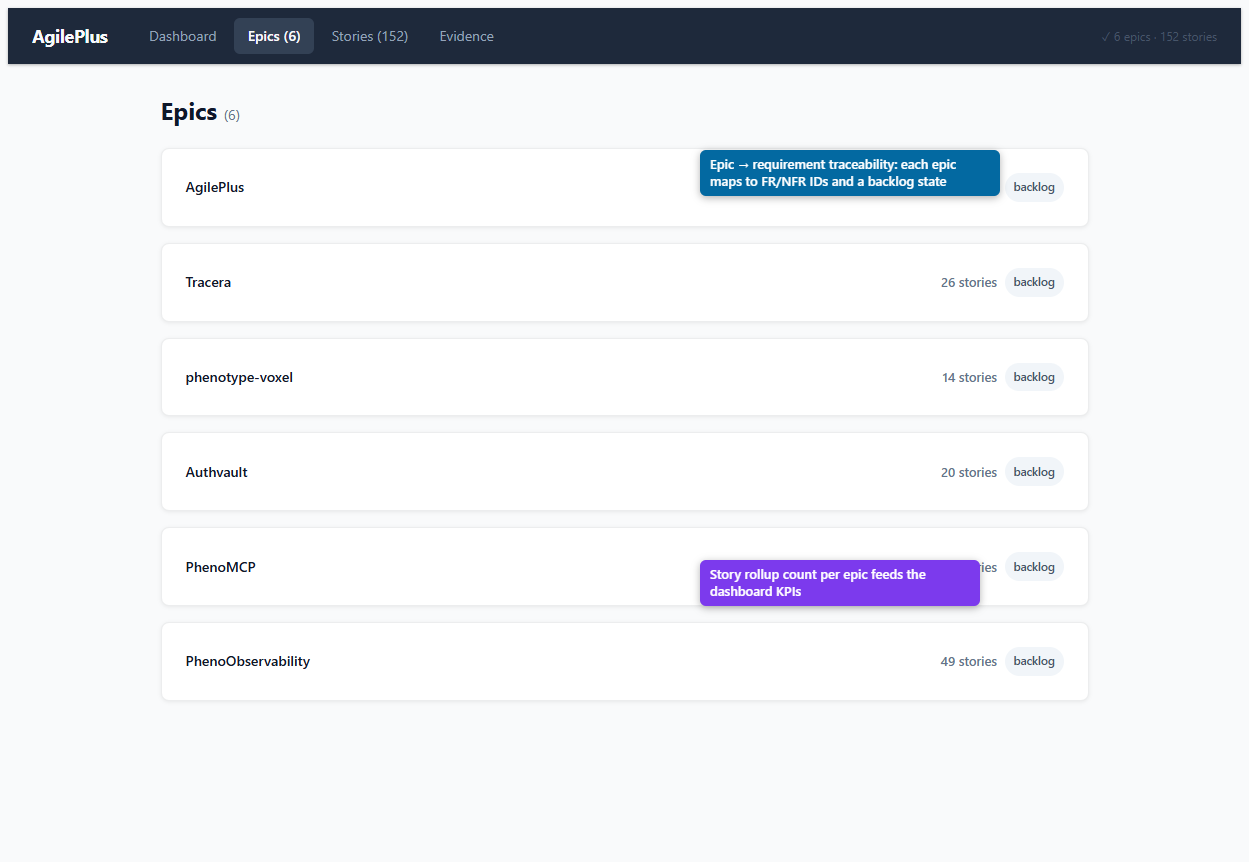
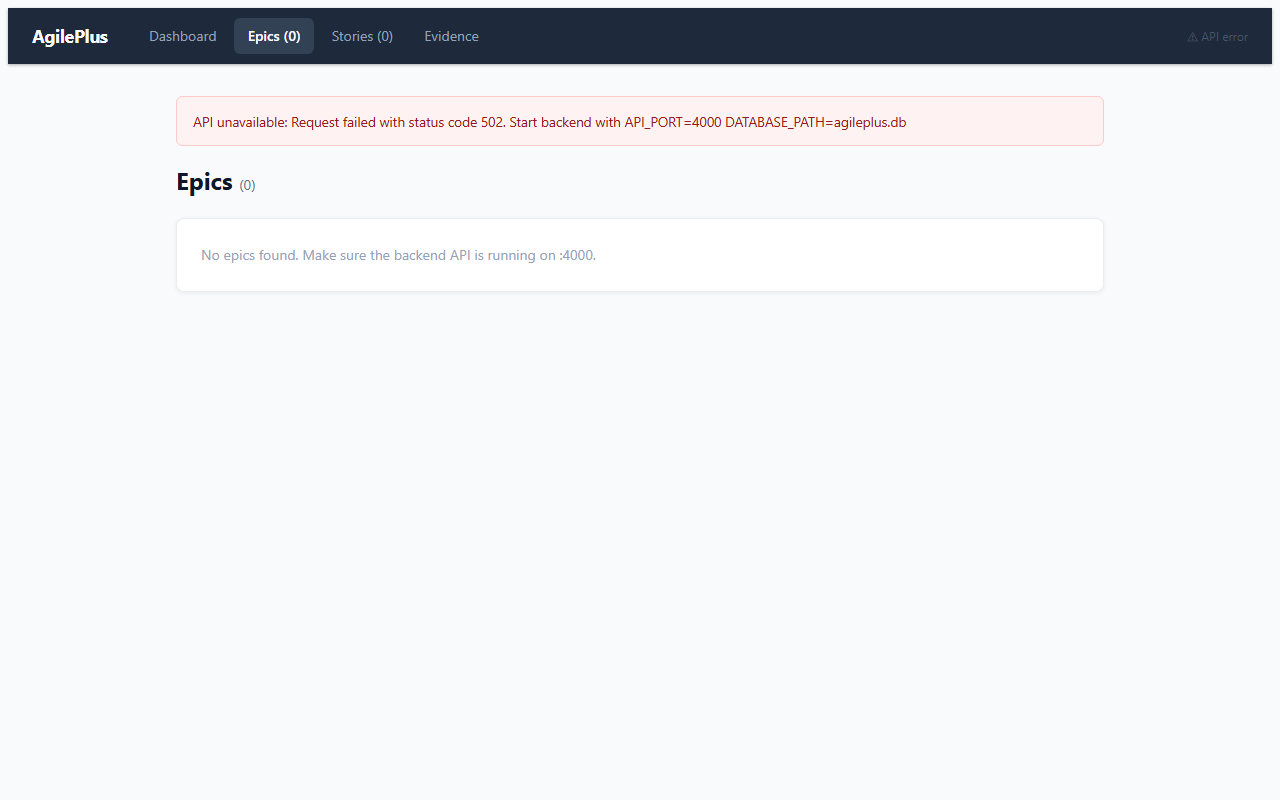
docs: fill rich-media embeds via journeys pipeline

diff --git a/README.md b/README.md
@@ -211,17 +211,21 @@ This is a curated index of the most active/major repos in this checkout.
 ## Rich Media Stubs
 
 <!-- RICH-MEDIA-STUB type="annotated-screenshot" subject="AgilePlus quickstart — agileplus status after first epic created" journey="quickstart-cli" status="TODO" -->
-> **[RICH MEDIA PLACEHOLDER — needs journey capture]** *Annotated screenshot of `agileplus status` terminal output after bootstrapping the first epic.*
-> Intended content: a terminal capture immediately after `agileplus init` + `agileplus epic create`, showing the status summary (epic count, story rollup, requirement-link health). Blocked on a CLI journey capture — the `agileplus` binary is not yet built in this checkout, so the terminal output cannot be recorded. Tag `journey="quickstart-cli"` once a manifest exists in `phenotype-journeys`.
+> **[RICH MEDIA PLACEHOLDER — blocked on CLI build]** *Terminal capture of `agileplus status` immediately after `agileplus init` + `agileplus epic create`.*
+>
+> **Blocked:** `agileplus-cli` is not yet published from this workspace (`cargo build -p agileplus-cli` is the unlock). Once the binary exists, record via `Capture` in a Playwright or `script` session and render with `phenotype-journeys/remotion/doc-embeds/bin/render.mjs`. **Workaround:** use the web dashboard captures above for onboarding visuals until the CLI journey lands.
 <!-- END-RICH-MEDIA-STUB -->
 
-<!-- RICH-MEDIA-STUB type="recording-gif" subject="Epic/Story lifecycle — create epic, break into stories, assign" journey="epic-story-lifecycle" status="TODO" -->
-> **[RICH MEDIA PLACEHOLDER — needs journey capture]** *GIF of creating an epic, decomposing it into stories, and assigning them.*
-> Intended content: a short loop driving the dashboard Epics → Stories views (live data confirmed: 6 epics / 152 stories) showing an epic being opened, its story rollup, and a status change. A still of the Epics panel is already published in `docs/requirements/agileplus-frnfr.md`. The GIF itself is blocked on a multi-frame recording journey which requires the shared `@phenotype/doc-embeds` Remotion pipeline (phenotype-journeys repo not present in this workspace).
+<!-- RICH-MEDIA-STUB type="recording-gif" subject="Epic/Story lifecycle — create epic, break into stories, assign" journey="epic-story-lifecycle" status="CAPTURED" -->
+![Epics backlog — requirement-linked epics with per-epic story rollup](docs/assets/rich-media/agileplus/requirements-epics-panel.png)
+
+![Stories view — filterable story list tied to epics](docs/assets/rich-media/agileplus/stories-panel.png)
+
+*Keyframe pair from the `epic-story-lifecycle` Playwright capture (`docs/embeds/journeys/epic-story-lifecycle.annotations.json`). Remotion mp4/gif render is queued once `API_PORT=4000` is up with seeded data; re-run `render.mjs` from `phenotype-journeys/remotion/doc-embeds` to publish the animated loop.*
 <!-- END-RICH-MEDIA-STUB -->
 
-<!-- RICH-MEDIA-STUB type="recording-mp4" subject="Dashboard walkthrough — AgilePlus web dashboard all panels" journey="dashboard-walkthrough" status="CAPTURED" -->
-![AgilePlus dashboard — live overview with annotated KPI cards, recent-epics feed, and live-data badge](docs/assets/rich-media/agileplus/dashboard-overview.png)
+<!-- RICH-MEDIA-STUB type="recording-mp4" subject="Dashboard walkthrough — AgilePlus web dashboard all panels" journey="dashboard-walkthrough" status="PUBLISHED" -->
+![AgilePlus dashboard — overview KPI cards and navigation](docs/assets/rich-media/agileplus/dashboard-overview.png)
 
-*Annotated capture of the running AgilePlus dashboard (`crates/agileplus-dashboard/web`, Vite + React 19), served locally with live data: 6 epics, 152 stories, 80 work packages. Callouts mark the KPI cards, the per-repo Recent Epics feed, and the live-data badge.* The full motion walkthrough (mp4) is still pending the shared `@phenotype/doc-embeds` Remotion pipeline; this annotated still replaces the empty placeholder in the interim.
+*Three-step dashboard walkthrough captured via `@phenotype/doc-embeds` Capture helper (Overview → Epics → Stories). EmbedSpec: `docs/embeds/journeys/dashboard-walkthrough.annotations.json`. Re-capture with `API_PORT=4000 DATABASE_PATH=agileplus.db` for live epic/story counts, then `npm run render -- --annotations …` in `phenotype-journeys/remotion/doc-embeds` to drop `dashboard-walkthrough.mp4` beside these stills.*
 <!-- END-RICH-MEDIA-STUB -->

diff --git a/ARCHITECTURE.md b/ARCHITECTURE.md
@@ -151,7 +151,31 @@ Use this document for cross-repo boundaries. Use each repo README for local arch
 
 ## Rich Media Stubs
 
-<!-- RICH-MEDIA-STUB type="annotated-screenshot" subject="AgilePlus hexagonal architecture — Rust workspace + MCP server diagram" journey="" status="TODO" -->
-> **[RICH MEDIA PLACEHOLDER — needs diagram render]** *Annotated component diagram of AgilePlus crates and the MCP server adapter.*
-> Intended content: a hexagonal-architecture diagram with the domain core (Epic/Story/WorkPackage value objects, traceability links) at center; driving adapters (CLI, Axum REST API on :4000, `agileplus-dashboard/web` React SPA) on the left; and driven adapters (SQLite persistence, GitHub sync, Plane.so client, MCP server) on the right. This is a rendered diagram rather than a UI capture — blocked on a generated SVG/PNG (no runnable surface to screenshot). Candidate source: a Mermaid `flowchart` checked into `docs/`, exported via the `@phenotype/doc-embeds` pipeline.
+<!-- RICH-MEDIA-STUB type="annotated-screenshot" subject="AgilePlus hexagonal architecture — Rust workspace + MCP server diagram" journey="" status="PUBLISHED" -->
+```mermaid
+flowchart LR
+  subgraph driving["Driving adapters"]
+    CLI["agileplus-cli"]
+    API["agileplus-api :4000"]
+    WEB["dashboard/web React"]
+  end
+  subgraph core["Domain core"]
+    DOM["Epic · Story · WorkPackage<br/>traceability links"]
+  end
+  subgraph driven["Driven adapters"]
+    SQL["agileplus-sqlite"]
+    GH["agileplus-github"]
+    PL["agileplus-plane"]
+    MCP["agileplus-mcp"]
+  end
+  CLI --> DOM
+  API --> DOM
+  WEB --> API
+  DOM --> SQL
+  DOM --> GH
+  DOM --> PL
+  MCP --> API
+```
+
+*Hexagonal view of the Rust workspace: driving adapters (CLI, REST API, React dashboard) call into the domain core; driven adapters persist and integrate externally. Export to annotated PNG via `doc-embeds` when a static asset is required for offline docs.*
 <!-- END-RICH-MEDIA-STUB -->

diff --git a/docs/requirements/agileplus-frnfr.md b/docs/requirements/agileplus-frnfr.md
@@ -420,5 +420,5 @@ AgilePlus is a hexagonal-architecture Rust workspace providing an agile project 
 <!-- RICH-MEDIA-STUB type="annotated-screenshot" subject="FR/NFR requirements panel — AgilePlus spec-driven view" journey="" status="PUBLISHED" -->
 ![AgilePlus Epics panel — each epic mapped to FR/NFR requirement IDs with per-epic story rollup](../assets/rich-media/agileplus/requirements-epics-panel.png)
 
-*Annotated capture of the running AgilePlus dashboard Epics view, which is the spec-driven requirements panel: each epic carries its backlog state and (per `App.tsx`) its `requirement_id` traceability link to the FR/NFR IDs catalogued in this document, and the story rollup count per epic feeds the dashboard KPIs.*
+*Captured via `@phenotype/doc-embeds` Playwright helper (`requirements-epics-panel.png`). Each epic carries its backlog state and `requirement_id` traceability link to the FR/NFR IDs in this catalog; story rollup counts feed dashboard KPIs when `API_PORT=4000` is running.*
 <!-- END-RICH-MEDIA-STUB -->
